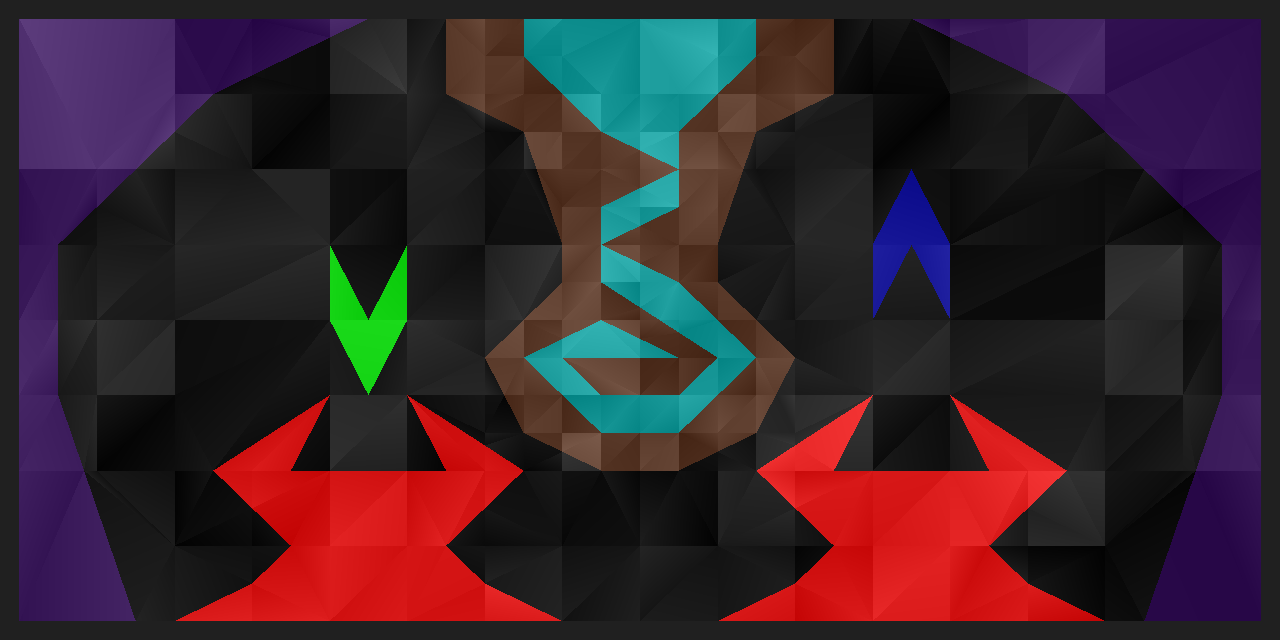
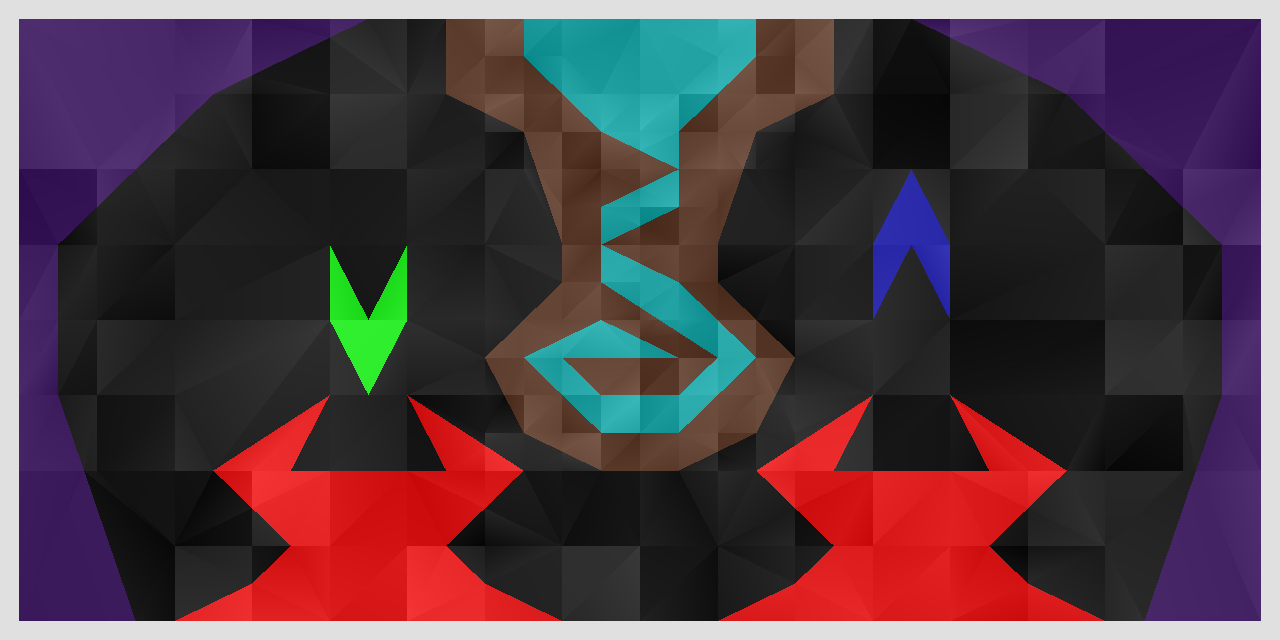
better version of fan delaunay / fix duplicate point bug

diff --git a/TriangulateCellNode.cpp b/TriangulateCellNode.cpp
@@ -119,6 +119,17 @@ bool notADuplicatePoint(const Point &a, const Point &b)
     return !(a==b);
 }
 
+void addIfNotDuplicate(std::vector<BPoint> &concavePolygon, const BPoint &B)
+{
+    if(concavePolygon.size() == 0)
+    {
+        concavePolygon.push_back(B);
+        return;
+    }
+    if(notADuplicatePoint(concavePolygon.back().p, B.p))
+        concavePolygon.push_back(B);
+}
+
 void triangulateCellNode(CellInfo &C)
 {
     std::vector<BPoint> pointList =
@@ -172,7 +183,6 @@ void triangulateCellNode(CellInfo &C)
     std::vector<std::vector<BPoint>> concavePolygons(lines.size() + 1);
     for(auto &v : concavePolygons) v.reserve(8);
     unsigned int ctr = 0;
-
     for(const auto &B : pointList)
     {
         if(B.type != BPoint::TYPE::END)
@@ -182,25 +192,19 @@ void triangulateCellNode(CellInfo &C)
         }
 
         while(activeList.back().type != BPoint::TYPE::START)
-        {//If else a bit wonky though but that works
-            if(concavePolygons[ctr].size() && notADuplicatePoint(concavePolygons[ctr].back().p,activeList.back().p))
-                concavePolygons[ctr].push_back(activeList.back());
-            else if(!concavePolygons[ctr].size())
-                concavePolygons[ctr].push_back(activeList.back());
+        {
+            addIfNotDuplicate(concavePolygons[ctr],activeList.back());
             activeList.pop_back();
         }
-        concavePolygons[ctr].push_back(activeList.back());
+        addIfNotDuplicate(concavePolygons[ctr],activeList.back());
+        addIfNotDuplicate(concavePolygons[ctr],B);
         activeList.back().type = BPoint::TYPE::FREE;
-        concavePolygons[ctr].push_back(B);
         activeList.push_back(B);
         ++ctr;
     }
     while(activeList.size())//last concave polygon
     {
-        if(concavePolygons[ctr].size() && notADuplicatePoint(concavePolygons[ctr].back().p,activeList.back().p))
-            concavePolygons[ctr].push_back(activeList.back());
-        else if(!concavePolygons[ctr].size())
-                concavePolygons[ctr].push_back(activeList.back());
+        addIfNotDuplicate(concavePolygons[ctr],activeList.back());
         activeList.pop_back();
     }
 
@@ -253,7 +257,9 @@ void triangulateCellNode(CellInfo &C)
         C.neighbourIds[DIR::RIGHT] = rightInterval.front().val;
     }
 
-    //fan delaunay triangulate. Not robust (if flip, may affect edge on previously made triangle and am not dealing with that recursively)
+    //fan delaunay triangulate. Think I got it this time. (fingers crossed)
+    //TODO... maybe make a visualizer of this algorithm so I can understand it better / test robustness
+    //is better than it was though so that's good
     {
     unsigned int k = 0;
     for(auto &concavePolygon : concavePolygons)
@@ -262,10 +268,13 @@ void triangulateCellNode(CellInfo &C)
         ++k;
         
         const BPoint *P3 = &concavePolygon[1];//i-2 when i = 3
+        const BPoint *P3last = P3;
+        size_t editPtIndex;
         for(size_t i = 3; i < concavePolygon.size(); ++i)//only delaunay test if 4 points
         {//p3 is FAR point = i-2
             if(isDelaunay(concavePolygon[0].p, concavePolygon[i-1].p, P3->p, concavePolygon[i].p))
             {//0 -> (i-2) -> (i-1) //i-1 is p3 future
+                editPtIndex = C.triangles.size();
                 C.triangles.push_back(concavePolygon[0].p_id);
                 C.triangles.push_back(P3->p_id);//p3
                 C.triangles.push_back(concavePolygon[i-1].p_id);
@@ -281,10 +290,23 @@ void triangulateCellNode(CellInfo &C)
         }//which will leave 1 triangle in the queue at the end to pop out 0-(i-2)(OR P3)-i(now the back)
         if(concavePolygon.size() > 2)
         {
-            C.triangles.push_back(concavePolygon[0].p_id);
-            C.triangles.push_back(P3->p_id);
-            C.triangles.push_back(concavePolygon.back().p_id);
-            C.triangleIds.push_back(triangleId);
+            //Test the last line delaunay with last from flipping it if there was a flip. (drawing pics helps my brain)
+            if(P3last != P3  && !isDelaunay(concavePolygon[0].p, concavePolygon.back().p, P3->p, P3last->p))
+            {
+                    C.triangles.push_back(P3last->p_id);//P3->p_id);
+                    C.triangles.push_back(concavePolygon.back().p_id);// P3last->p_id);
+                    C.triangles.push_back(concavePolygon[0].p_id);//concavePolygon.back().p_id);
+                    C.triangleIds.push_back(triangleId);
+                    //edit the last triangle too!!!
+                    C.triangles[editPtIndex] = concavePolygon.back().p_id;
+            }
+            else
+            {
+                C.triangles.push_back(concavePolygon[0].p_id);
+                C.triangles.push_back(P3->p_id);
+                C.triangles.push_back(concavePolygon.back().p_id);
+                C.triangleIds.push_back(triangleId);
+            }
         }
     }
     }

diff --git a/TriangulateCellNodeTest.cpp b/TriangulateCellNodeTest.cpp
@@ -84,9 +84,62 @@ void test2()//in sceneTest not showing the triangle properly
     test(C);
 }
 
+
+void test3()//from scenetest
+{
+    TESS::CellInfo C;
+    C.cornerIds[TESS::QUADRANT::NW] = 10;
+    C.cornerIds[TESS::QUADRANT::SW] = 11;
+    C.cornerIds[TESS::QUADRANT::SE] = 12;
+    C.cornerIds[TESS::QUADRANT::NE] = 13;
+
+//    C.steinerIds[TESS::DIR::UP] = 20;
+//    C.steinerIds[TESS::DIR::LEFT] = 21;
+    C.steinerIds[TESS::DIR::DOWN] = 22;
+    C.steinerIds[TESS::DIR::RIGHT] = 23;
+
+    C.lines = 
+    {
+        {0.5f,0.0f},
+        {1.0f,0.5f}
+    };
+
+    C.linePolygonIds = {0,5};
+    C.linePointIds = {0,1};
+
+    test(C);
+}
+
+void test4()//from scenetest
+{
+    TESS::CellInfo C;
+    C.cornerIds[TESS::QUADRANT::NW] = 10;
+    C.cornerIds[TESS::QUADRANT::SW] = 11;
+    C.cornerIds[TESS::QUADRANT::SE] = 12;
+    C.cornerIds[TESS::QUADRANT::NE] = 13;
+
+//    C.steinerIds[TESS::DIR::UP] = 20;
+//    C.steinerIds[TESS::DIR::LEFT] = 21;
+    C.steinerIds[TESS::DIR::DOWN] = 22;
+    C.steinerIds[TESS::DIR::RIGHT] = 23;
+
+    C.lines = 
+    {
+        {0.0f,1.0f},
+        {0.5f,0.0f},
+        {0.0f,1.0f},
+        {1.0f,0.5f}
+    };
+
+    C.linePolygonIds = {0,5,5,0};
+    C.linePointIds = {0,1,2,3};
+
+    test(C);
+}
+
 int main()
 {
-    test2();
+    test4();
 //    diamondTest();
     /*
 

diff --git a/SceneTest.cpp b/SceneTest.cpp
@@ -194,7 +194,8 @@ void drawRegion(const TESS::QuadTreeTesselator &QTT, const unsigned int id, cons
         sf::Color color = baseColor;
         color.r += t + s + c;
         color.g += t + s + c;
-        color.b += t + s + c;
+        color.b += t+ s + c;
+        //color.a = 128;
         triangles.emplace_back(points[i],color);
     }
 }
@@ -276,7 +277,7 @@ int main()
     sf::Event event;
     while (window.isOpen())
     {
-        window.clear(sf::Color(32,32,32));
+        window.clear(sf::Color(224,224,224));//sf::Color(32,32,32));
         window.draw(triangles.data(),triangles.size(),sf::Triangles);
         //for(auto &c : circles)
         //    window.draw(c);//see any brighter spots -> duplicate points
